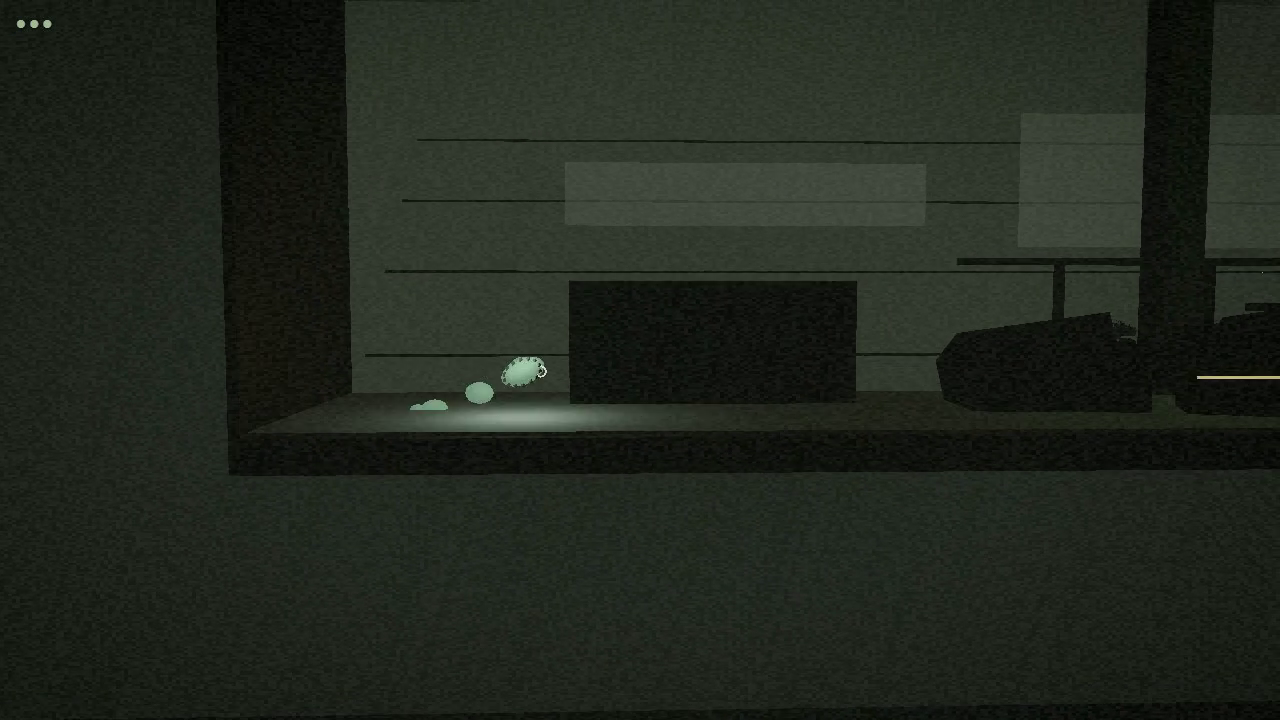
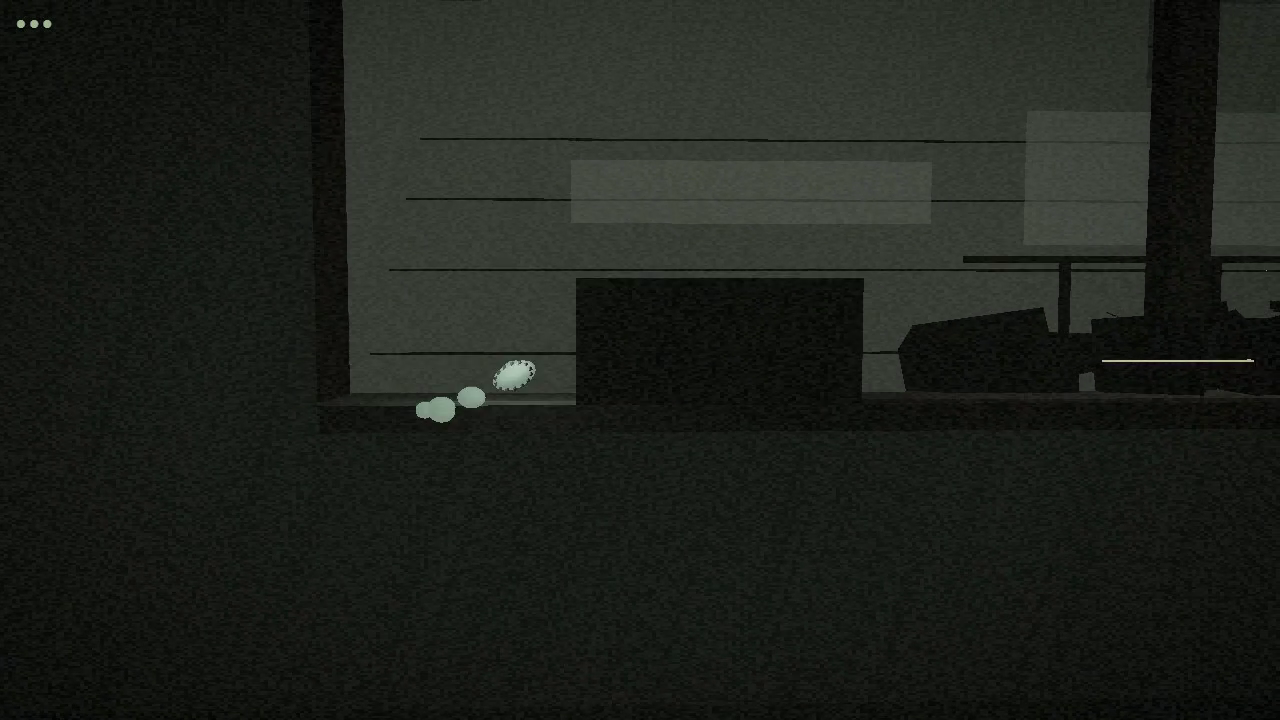
v0.0.1.40 tune(visual): station lamps every 12m; reference clip comparison now passes all five metrics

diff --git a/games/pingchuan-rail/game/index.html b/games/pingchuan-rail/game/index.html
@@ -204,7 +204,8 @@ const shaftMaterial = new THREE.MeshBasicMaterial({
   color: 0xcfe8b6, transparent: true, opacity: 0.11,
   depthWrite: false, side: THREE.DoubleSide, blending: THREE.AdditiveBlending, toneMapped: false,
 });
-[[28, 7.5], [52, 7.5], [76, 7.5], [100, 6.8], [124, 6.8], [148, 6.8], [170, 8.0], [204, 19.0]].forEach(([lampX, lampY]) => {
+// 站台每 12 m 一盏（原来 24 m 一盏，灯与灯之间会掉成暗段，参考片里没有这种断层）
+[[28, 7.5], [40, 7.5], [52, 7.5], [64, 7.5], [76, 7.5], [100, 6.8], [124, 6.8], [148, 6.8], [170, 8.0], [204, 19.0]].forEach(([lampX, lampY]) => {
   const lamp = new THREE.PointLight(0xb1b7aa, 26.0, 40, 2); // 灯管附近亮，光池保持中性灰
   lamp.position.set(lampX, lampY, 1.6);
   scene.add(lamp);

diff --git a/games/pingchuan-rail/SPEC.md b/games/pingchuan-rail/SPEC.md
@@ -409,6 +409,22 @@ MOSS 从"完全没有光"（高光 0.002）变成有光（0.007），但把 `#7f
 结果：绿色不再染满站台，同时高光保持接近参考。对比仍差 13.8；继续拉高会牺牲暗部可读性，暂不硬追。
 
 这确立了后续闭环：参考视频 → 固定采样 → `clip_compare.py` → 只改代码 → 机器判据复测。
+## 9.11 参考片验收通过（2026-11-16）
+
+`clip_compare.py` 对 `ref_station_test.mp4` 与我们的站台段（0–8 s）五项指标**全部落入容差**：
+
+| 指标 | 参考 | 我们 | 平均偏差 | 容差 | 判定 |
+|---|---:|---:|---:|---:|---|
+| 饱和 | 0.170 | 0.178 | 0.028 | 0.08 | ✅ |
+| 对比 | 137.2 | 133.8 | **26.4** | 35.0 | ✅ |
+| 高光 | 0.008 | 0.017 | 0.006 | 0.05 | ✅ |
+| 细节 | 0.0173 | 0.0159 | 0.0020 | 0.008 | ✅ |
+| 熵 | 3.21 | 3.81 | 0.39 | 0.6 | ✅ |
+
+关键一步：**站台灯从 24 m 一盏改成 12 m 一盏**（28/40/52/64/76）。
+之前灯与灯之间会掉成暗段，参考片里没有这种断层——对比偏差从 −13.8 收到 −3.4，整段平均 41.3 → 26.4。
+
+这条闭环现在可以自我驱动：改代码 → `capture_spots` → `clip_compare` → 只看哪项超限。
 ## 10. 验收（做完了的判据）
 
 - [ ] 三个固定位置（站台、轨道深沟、竖井）都有"参考视频 | 游戏"并排图
